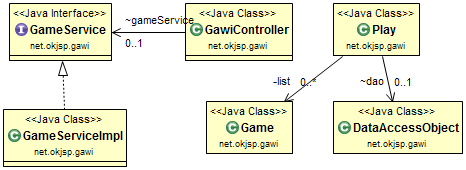
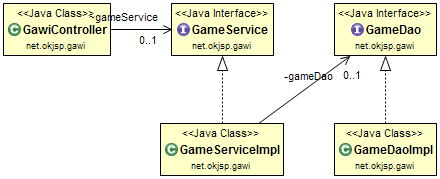
GameDAO

diff --git a/azspring/src/main/java/net/okjsp/gawi/GameDaoImpl.java b/azspring/src/main/java/net/okjsp/gawi/GameDaoImpl.java
@@ -1,0 +1,43 @@
+package net.okjsp.gawi;
+
+import java.io.IOException;
+import java.io.InputStream;
+import java.util.Date;
+
+import org.apache.ibatis.io.Resources;
+import org.apache.ibatis.session.SqlSession;
+import org.apache.ibatis.session.SqlSessionFactory;
+import org.apache.ibatis.session.SqlSessionFactoryBuilder;
+import org.springframework.stereotype.Repository;
+
+@Repository
+public class GameDaoImpl implements GameDao {
+	private static SqlSessionFactory sqlSessionFactory;
+
+	static {
+		String resource = "net/okjsp/gawi/mybatis-config.xml";
+		InputStream inputStream;
+		try {
+			inputStream = Resources.getResourceAsStream(resource);
+			sqlSessionFactory = new SqlSessionFactoryBuilder()
+					.build(inputStream);
+		} catch (IOException e) {
+			e.printStackTrace();
+		}
+	}
+
+	@Override
+	public int save(int choice, int computerChoice, String judgement) {
+		Date datetime = new Date();
+		Game game = new Game(choice, computerChoice, judgement, datetime);
+		SqlSession session = sqlSessionFactory.openSession();
+		try {
+			GameMapper mapper = session.getMapper(GameMapper.class);
+			mapper.insertGame(game);
+		} finally {
+			session.commit();
+			session.close();
+		}
+		return 0;
+	}
+}

diff --git a/azspring/src/main/java/net/okjsp/gawi/GameServiceImpl.java b/azspring/src/main/java/net/okjsp/gawi/GameServiceImpl.java
@@ -1,15 +1,18 @@
 package net.okjsp.gawi;
 
+import org.springframework.beans.factory.annotation.Autowired;
 import org.springframework.stereotype.Service;
 
 @Service
 public class GameServiceImpl implements GameService {
+	@Autowired
+	private GameDao gameDao;
 
 	public Play play(Game game) {
 		Play play = new Play();
 		game.setComputerChoice(play.getComputerChoice());
 		game.setJudgement(play.judge(game.getChoice(), game.getComputerChoice()));
-		play.save(game.getChoice(), game.getComputerChoice(),
+		gameDao.save(game.getChoice(), game.getComputerChoice(),
 				game.getJudgement());
 		return play;
 	}

diff --git a/azspring/src/main/java/net/okjsp/gawi/GameDao.java b/azspring/src/main/java/net/okjsp/gawi/GameDao.java
@@ -1,0 +1,7 @@
+package net.okjsp.gawi;
+
+public interface GameDao {
+
+	int save(int choice, int computerChoice, String judgement);
+
+}
